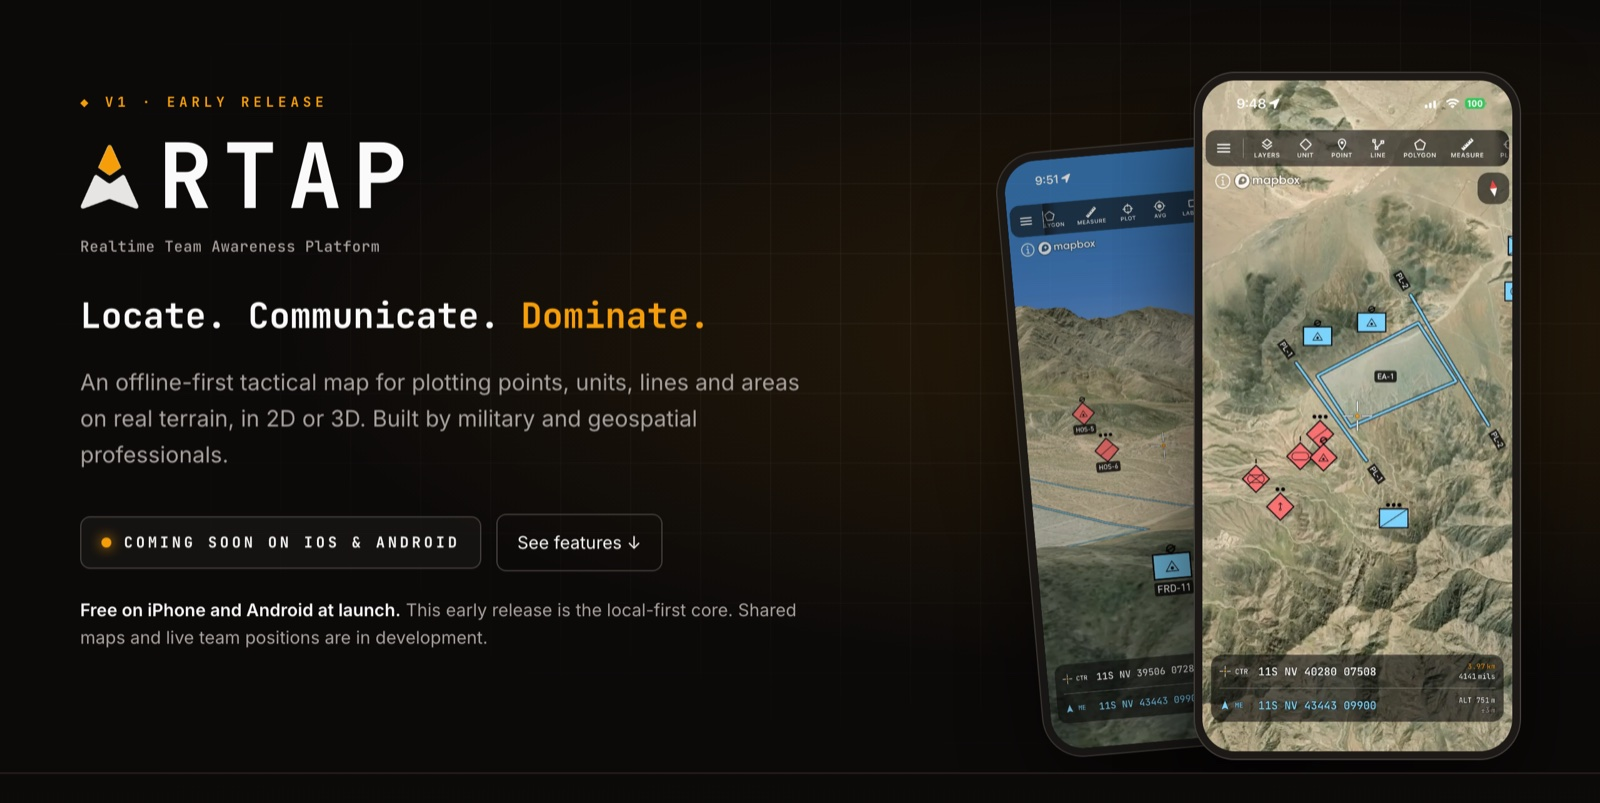
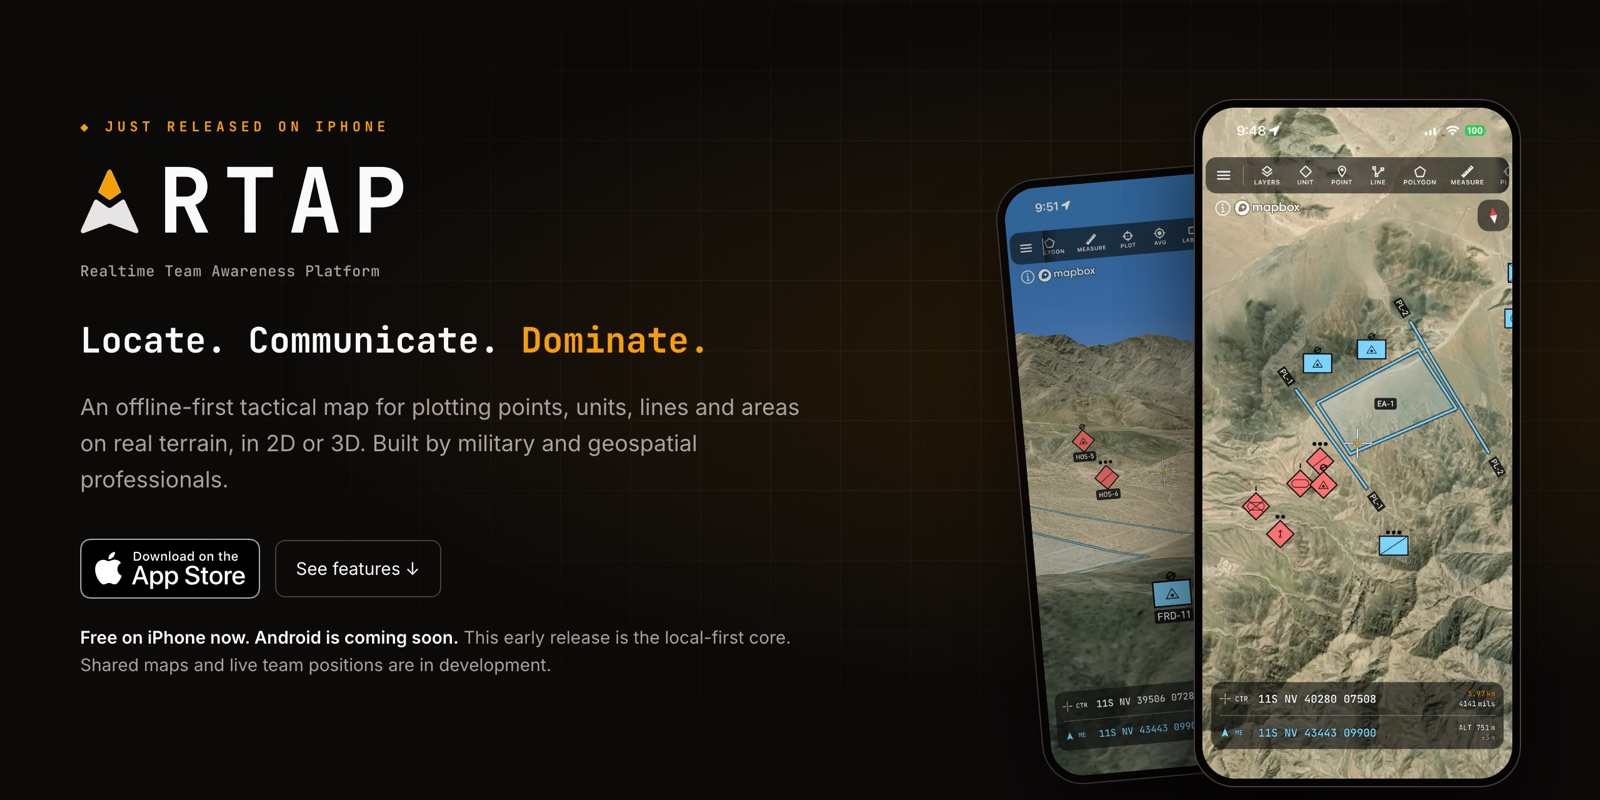
docs: refresh the README screenshot with the App Store button

diff --git a/README.md b/README.md
@@ -5,7 +5,7 @@ points, units, lines and areas on real terrain, in 2D or 3D. RTAP is
 [on the App Store](https://apps.apple.com/app/id6834856833) for iPhone, with Android coming soon. This repo is the
 website; the mobile app and the API live in their own repositories.
 
-![The RTAP homepage: the hero with the tagline beside two phones showing the map in 2D and 3D](docs/readme/home.jpg)
+![The RTAP homepage: the tagline and the Download on the App Store button beside two phones showing the map in 2D and 3D](docs/readme/home.jpg)
 
 > **Training and simulation only.** RTAP is not for real-world military use or targeting.
 
